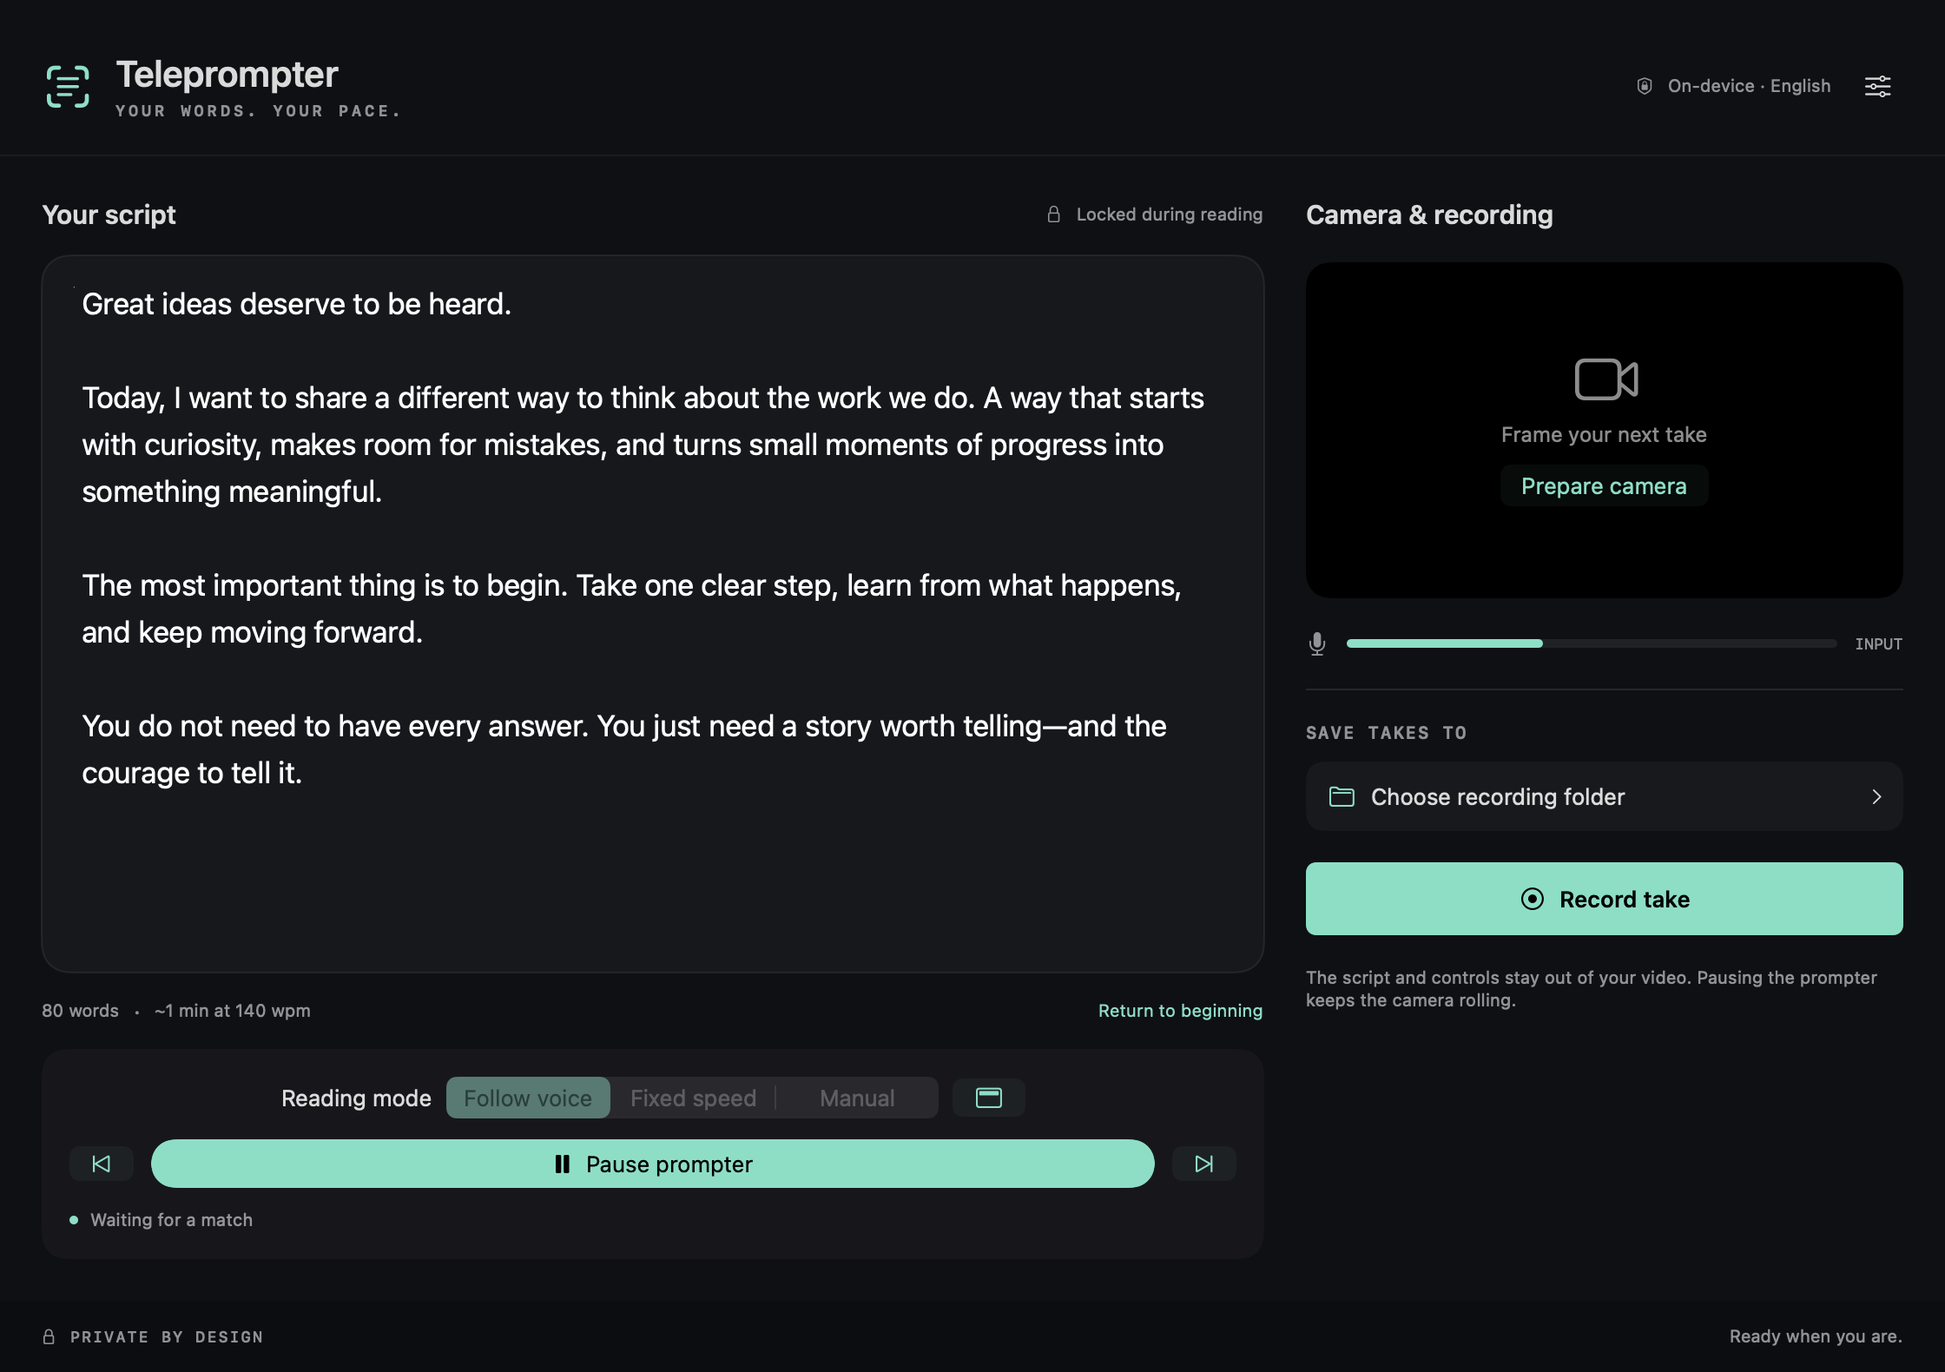
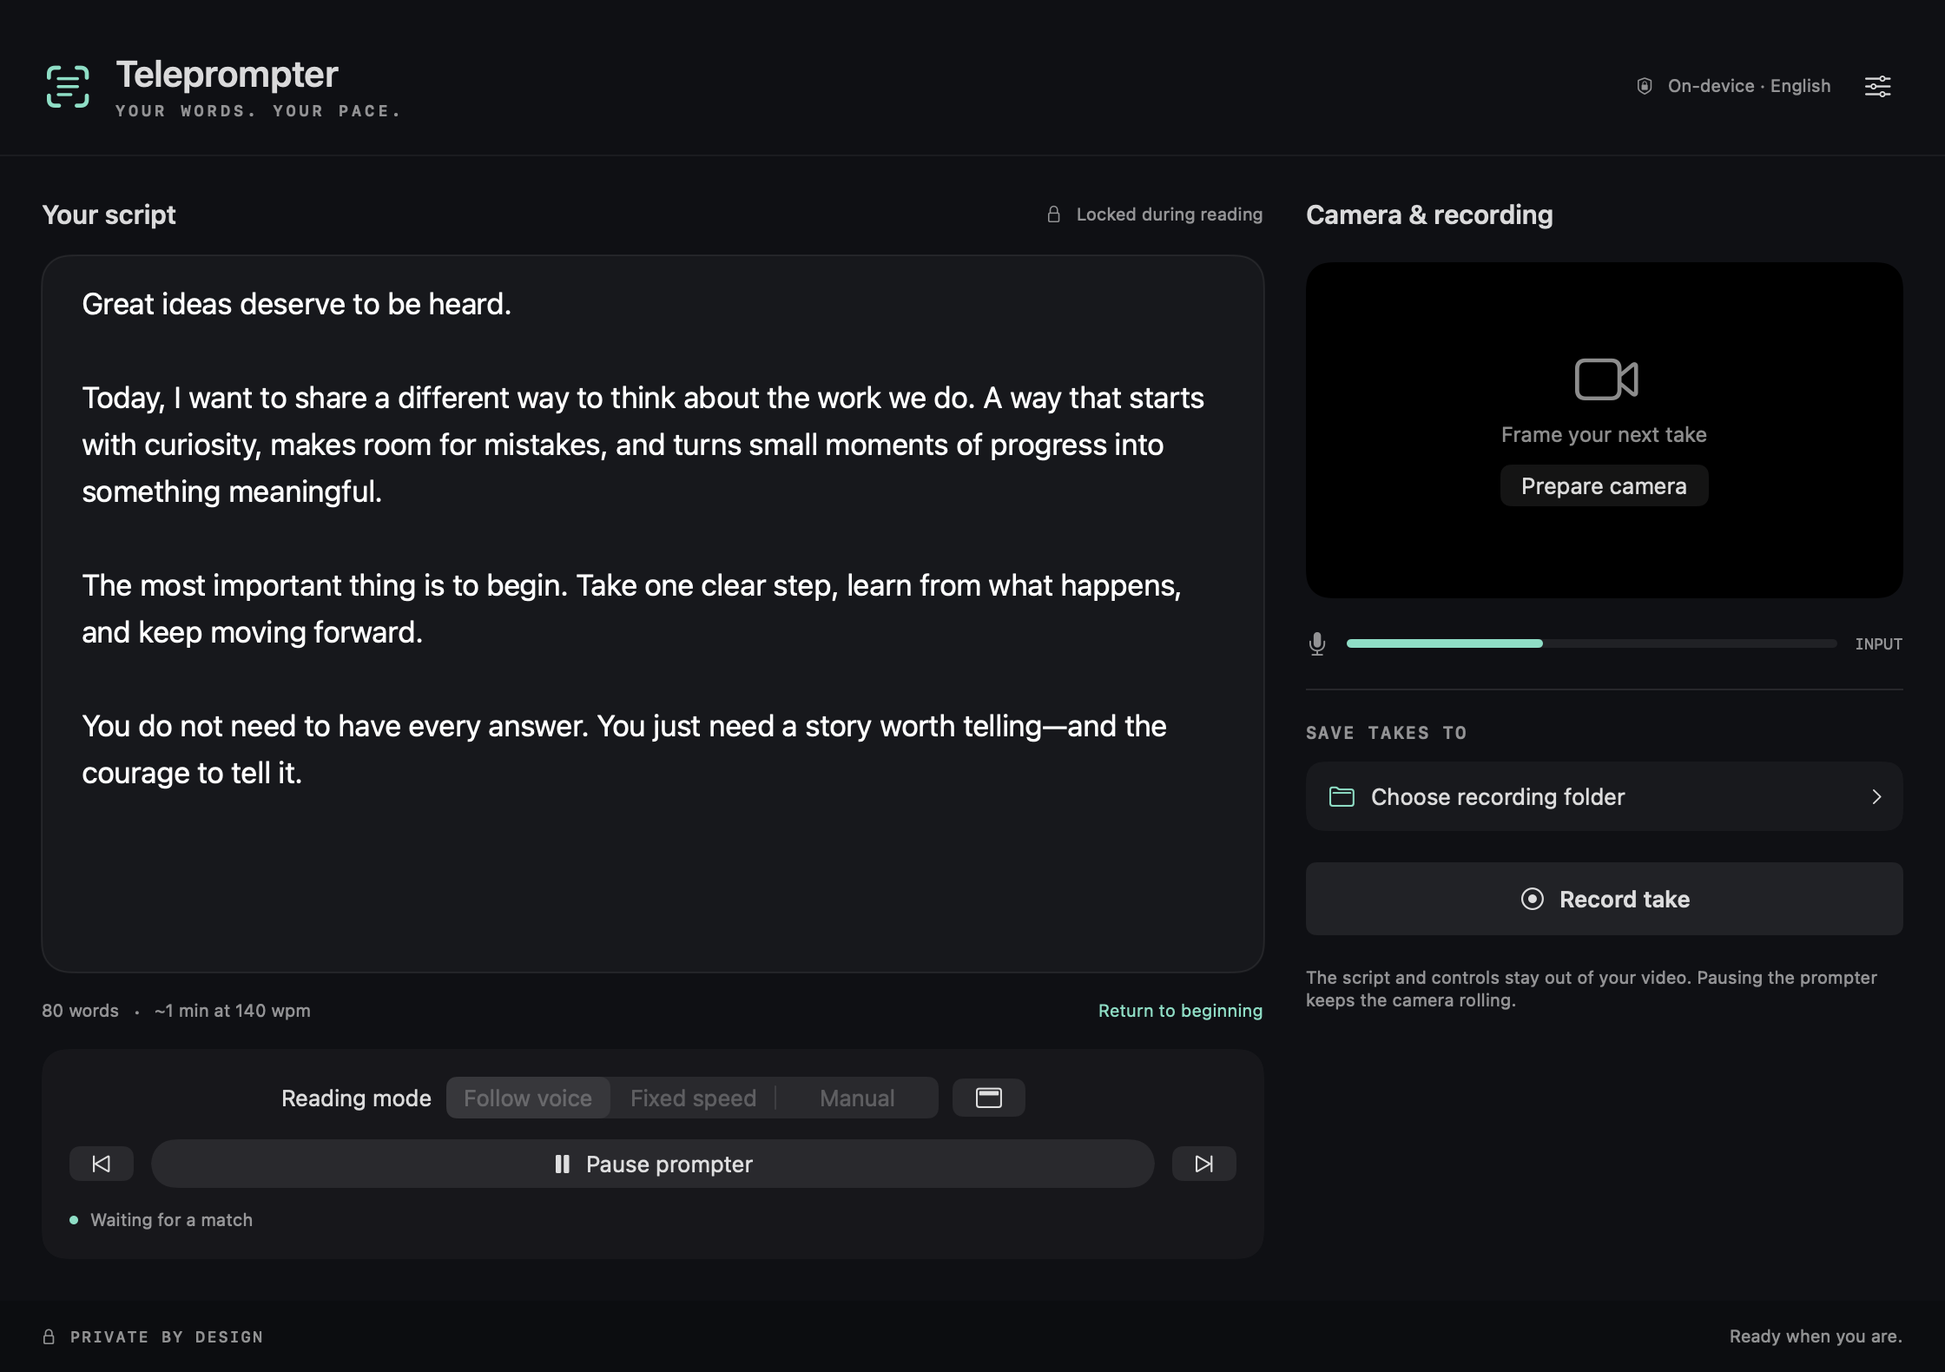
Reduce prompter and script text to 60 percent size
Apply compact sizing to existing preferences while retaining legible recording controls. Update size controls, screenshots, validation notes, and app version to 1.0.3.

Changed region(s): [[0.0625, 0.7753, 0.5938, 0.8684], [0.6562, 0.6203, 1.0, 0.6823], [0.7812, 0.3411, 0.875, 0.3722]]

diff --git a/App/PrompterPanel.swift b/App/PrompterPanel.swift
@@ -2,6 +2,33 @@ import AppKit
 import SwiftUI
 import TeleprompterKit
 
+/// Keep stored dimensions in their original units so existing drafts become
+/// compact without rescaling their saved settings again on each launch.
+enum PrompterSizing {
+    static let scale = 0.6
+    static let padding = 12.0 * scale
+    static let cornerRadius = 24.0 * scale
+    static let controlsHeight = 45.0 * scale
+
+    static func readingSettings(_ settings: UserSettings) -> UserSettings {
+        var compact = settings
+        compact.fontSize *= scale
+        compact.panelWidth *= scale
+        compact.lineSpacing *= scale
+        return compact
+    }
+
+    static func readerHeight(_ settings: UserSettings) -> Double {
+        (settings.fontSize * 1.25 + settings.lineSpacing) * 3
+    }
+
+    static func panelSize(_ settings: UserSettings) -> NSSize {
+        let compact = readingSettings(settings)
+        return NSSize(width: compact.panelWidth + 2 * padding,
+                      height: readerHeight(compact) + 3 * padding + controlsHeight + scale)
+    }
+}
+
 @MainActor final class PrompterPanelController {
     private let panel: NSPanel
     private weak var model: AppModel?
@@ -54,11 +81,10 @@ import TeleprompterKit
     }
     func resize() {
         guard let model else { return }
-        let width = model.settings.panelWidth + 24
-        let height = (model.settings.fontSize * 1.25 + model.settings.lineSpacing) * 3 + 82
+        let size = PrompterSizing.panelSize(model.settings)
         let top = panel.frame.maxY
         let center = panel.frame.midX
-        panel.setFrame(NSRect(x: center - width / 2, y: top - height, width: width, height: height), display: true)
+        panel.setFrame(NSRect(x: center - size.width / 2, y: top - size.height, width: size.width, height: size.height), display: true)
     }
     func resetPosition() {
         guard let screen = NSScreen.screens.first(where: { $0.safeAreaInsets.top > 0 }) ?? NSScreen.main ?? NSScreen.screens.first else { return }
@@ -77,22 +103,23 @@ struct FloatingPrompterView: View {
     private var illuminated: Bool {
         model.following || model.speechLoading || model.phase != .idle
     }
+    private var readingSettings: UserSettings { PrompterSizing.readingSettings(model.settings) }
     var body: some View {
         VStack(spacing: 0) {
-            PrompterReader(script: model.script, index: model.tokenIndex, settings: model.settings, onSeek: model.seek, suppressMotion: reduceMotion)
-                .frame(height: (model.settings.fontSize * 1.25 + model.settings.lineSpacing) * 3)
-                .padding(.top, 12)
+            PrompterReader(script: model.script, index: model.tokenIndex, settings: readingSettings, onSeek: model.seek, suppressMotion: reduceMotion)
+                .frame(height: PrompterSizing.readerHeight(readingSettings))
+                .padding(.top, PrompterSizing.padding)
                 .mask(alignment: .bottom) {
                     LinearGradient(stops: [.init(color: .white, location: 0), .init(color: .white, location: 0.78),
                                            .init(color: .white.opacity(0.3), location: 1)], startPoint: .top, endPoint: .bottom)
                 }
-            Rectangle().fill(LinearGradient(colors: [.clear, .white.opacity(0.14), .clear], startPoint: .leading, endPoint: .trailing)).frame(height: 1)
+            Rectangle().fill(LinearGradient(colors: [.clear, .white.opacity(0.14), .clear], startPoint: .leading, endPoint: .trailing)).frame(height: PrompterSizing.scale)
             controls
         }
-        .frame(width: model.settings.panelWidth)
+        .frame(width: readingSettings.panelWidth)
         .background(surface)
-        .clipShape(RoundedRectangle(cornerRadius: 24, style: .continuous))
-        .padding(12)
+        .clipShape(RoundedRectangle(cornerRadius: PrompterSizing.cornerRadius, style: .continuous))
+        .padding(PrompterSizing.padding)
         .overlay {
             PrompterAura(active: illuminated, visible: model.overlayVisible,
                          level: model.following && model.settings.mode == .speech ? model.microphoneLevel : 0,
@@ -105,15 +132,15 @@ struct FloatingPrompterView: View {
         .onChange(of: model.settings.lineSpacing) { model.overlay?.resize() }
     }
     private var surface: some View {
-        RoundedRectangle(cornerRadius: 24, style: .continuous)
+        RoundedRectangle(cornerRadius: PrompterSizing.cornerRadius, style: .continuous)
             .fill(Color(red: 0.025, green: 0.027, blue: 0.045).opacity(reduceTransparency ? 1 : model.settings.opacity))
             .overlay {
-                RoundedRectangle(cornerRadius: 24, style: .continuous)
+                RoundedRectangle(cornerRadius: PrompterSizing.cornerRadius, style: .continuous)
                     .fill(LinearGradient(colors: [Color.white.opacity(0.04), Color.clear], startPoint: .top, endPoint: .bottom))
             }
     }
     private var controls: some View {
-            HStack(spacing: 12) {
+            HStack(spacing: 12 * PrompterSizing.scale) {
                 Button { model.toggleFollowing() } label: { Image(systemName: model.following ? "pause.fill" : "play.fill") }
                     .accessibilityLabel(model.following ? "Pause prompter" : "Start prompter")
                 Button { model.moveSentence(-1) } label: { Image(systemName: "backward.end") }.accessibilityLabel("Previous sentence")
@@ -127,12 +154,12 @@ struct FloatingPrompterView: View {
                 }
                 if model.phase == .recording, let start = model.recordingStart {
                     Circle().fill(.red).frame(width: 6, height: 6)
-                    Text(start, style: .timer).font(.system(size: 10, design: .monospaced)).monospacedDigit()
+                    Text(start, style: .timer).font(.system(size: 10, design: .monospaced)).monospacedDigit().fixedSize()
                 }
                 Button { model.toggleRecording() } label: { Image(systemName: model.phase == .recording ? "stop.circle.fill" : "record.circle").foregroundStyle(.red) }
                     .disabled(model.phase == .finishing || model.configuring).accessibilityLabel(model.phase == .recording ? "Stop recording" : "Record take")
                 Button { model.toggleOverlay() } label: { Image(systemName: "xmark") }.accessibilityLabel("Hide prompter")
-            }.buttonStyle(.plain).font(.system(size: 12)).padding(.horizontal, 16).frame(height: 45)
+            }.buttonStyle(.plain).font(.system(size: 12)).padding(.horizontal, 16 * PrompterSizing.scale).frame(height: PrompterSizing.controlsHeight)
     }
 
 }
@@ -151,7 +178,7 @@ struct PrompterReader: NSViewRepresentable {
         scroll.contentView.wantsLayer = true
         let text = ReadingTextView(frame: .zero)
         text.isEditable = false; text.isSelectable = false; text.drawsBackground = false
-        text.textContainerInset = NSSize(width: 18, height: 0)
+        text.textContainerInset = NSSize(width: 18 * PrompterSizing.scale, height: 0)
         text.isVerticallyResizable = true; text.isHorizontallyResizable = false
         text.autoresizingMask = [.width]
         text.textContainer?.widthTracksTextView = true
@@ -180,7 +207,7 @@ struct PrompterReader: NSViewRepresentable {
                 .font: NSFont.systemFont(ofSize: settings.fontSize, weight: .medium),
                 .foregroundColor: NSColor.white.withAlphaComponent(0.78), .paragraphStyle: paragraph]))
             text.setFrameSize(NSSize(width: width, height: 1))
-            container.containerSize = NSSize(width: width - 36, height: .greatestFiniteMagnitude)
+            container.containerSize = NSSize(width: width - 36 * PrompterSizing.scale, height: .greatestFiniteMagnitude)
             manager.ensureLayout(for: container)
             let height = manager.usedRect(for: container).height + (settings.fontSize * 1.25 + settings.lineSpacing) * 3
             text.setFrameSize(NSSize(width: width, height: height))

diff --git a/App/SettingsView.swift b/App/SettingsView.swift
@@ -10,9 +10,9 @@ struct PrompterSettingsView: View {
             HStack { Text("Make it your own").font(.title2.weight(.semibold)); Spacer(); Button("Done") { model.registerHotkeys(); dismiss() }.keyboardShortcut(.defaultAction) }
             Form {
                 Section("Reading panel") {
-                    slider("Text size", value: $model.settings.fontSize, range: 20...48, suffix: "pt")
-                    slider("Panel width", value: $model.settings.panelWidth, range: 380...900, suffix: "pt")
-                    slider("Line spacing", value: $model.settings.lineSpacing, range: 2...20, suffix: "pt")
+                    panelSlider("Text size", value: $model.settings.fontSize, range: 20...48)
+                    panelSlider("Panel width", value: $model.settings.panelWidth, range: 380...900)
+                    panelSlider("Line spacing", value: $model.settings.lineSpacing, range: 2...20)
                     slider("Background opacity", value: $model.settings.opacity, range: 0.45...1, suffix: "", scale: 100)
                     Button("Reset panel beneath the notch") { model.ensureOverlay(); model.overlay?.resetPosition() }
                 }
@@ -29,11 +29,16 @@ struct PrompterSettingsView: View {
             }.formStyle(.grouped)
         }.padding(24).frame(width: 560, height: 640).preferredColorScheme(.dark)
     }
+    private func panelSlider(_ title: String, value: Binding<Double>, range: ClosedRange<Double>) -> some View {
+        let scale = PrompterSizing.scale
+        let displayed = Binding<Double>(get: { value.wrappedValue * scale }, set: { value.wrappedValue = $0 / scale })
+        return slider(title, value: displayed, range: (range.lowerBound * scale)...(range.upperBound * scale), suffix: "pt")
+    }
     private func slider(_ title: String, value: Binding<Double>, range: ClosedRange<Double>, suffix: String, scale: Double = 1) -> some View {
         HStack {
             Text(title).frame(width: 135, alignment: .leading)
             Slider(value: value, in: range)
-            Text("\(Int(value.wrappedValue * scale)) \(suffix)").font(.caption.monospacedDigit()).frame(width: 60, alignment: .trailing)
+            Text("\((value.wrappedValue * scale).formatted(.number.precision(.fractionLength(0...1)))) \(suffix)").font(.caption.monospacedDigit()).frame(width: 60, alignment: .trailing)
         }
     }
     private func shortcut(_ title: String, action: String) -> some View {

diff --git a/App/PrompterAura.swift b/App/PrompterAura.swift
@@ -51,13 +51,13 @@ final class AuraView: NSView {
         rim.mask = rimMask
         rimMask.fillColor = nil
         rimMask.strokeColor = NSColor.white.cgColor
-        rimMask.lineWidth = 1.5
+        rimMask.lineWidth = 1.5 * PrompterSizing.scale
         // A real soft shadow, masked outside the bubble, keeps all light off the text.
         shadowSource.backgroundColor = NSColor.black.cgColor
-        shadowSource.cornerRadius = 24
+        shadowSource.cornerRadius = PrompterSizing.cornerRadius
         shadowSource.shadowColor = NSColor(red: 0.49, green: 0.47, blue: 1, alpha: 1).cgColor
         shadowSource.shadowOpacity = 1
-        shadowSource.shadowRadius = 8
+        shadowSource.shadowRadius = 8 * PrompterSizing.scale
         shadowSource.shadowOffset = .zero
         bloom.mask = outsideMask
         outsideMask.fillRule = .evenOdd
@@ -69,16 +69,17 @@ final class AuraView: NSView {
     override func layout() {
         super.layout()
         CATransaction.begin(); CATransaction.setDisableActions(true)
-        let outline = RoundedRectangle(cornerRadius: 24, style: .continuous)
-            .path(in: bounds.insetBy(dx: 12.75, dy: 12.75)).cgPath
+        let inset = 12.75 * PrompterSizing.scale
+        let outline = RoundedRectangle(cornerRadius: PrompterSizing.cornerRadius, style: .continuous)
+            .path(in: bounds.insetBy(dx: inset, dy: inset)).cgPath
         let side = hypot(bounds.width, bounds.height)
         rim.frame = bounds; bloom.frame = bounds
         rimGradient.bounds = CGRect(x: 0, y: 0, width: side, height: side)
         rimGradient.position = CGPoint(x: bounds.midX, y: bounds.midY)
         rimMask.frame = bounds; rimMask.path = outline
         rimMask.contentsScale = window?.backingScaleFactor ?? 2
-        shadowSource.frame = bounds.insetBy(dx: 12.75, dy: 12.75)
-        shadowSource.shadowPath = RoundedRectangle(cornerRadius: 24, style: .continuous).path(in: shadowSource.bounds).cgPath
+        shadowSource.frame = bounds.insetBy(dx: inset, dy: inset)
+        shadowSource.shadowPath = RoundedRectangle(cornerRadius: PrompterSizing.cornerRadius, style: .continuous).path(in: shadowSource.bounds).cgPath
         let outside = CGMutablePath()
         outside.addRect(bounds); outside.addPath(outline)
         outsideMask.frame = bounds; outsideMask.path = outside

diff --git a/App/SnapshotCheck.swift b/App/SnapshotCheck.swift
@@ -11,6 +11,11 @@ import TeleprompterKit
         model.trackingStatus = TrackingStatus.listening.rawValue
         model.tokenIndex = 3
         model.microphoneLevel = 0.4
+        if CommandLine.arguments.contains("--narrow-panel") { model.settings.panelWidth = 380 }
+        if CommandLine.arguments.contains("--recording-preview") {
+            model.phase = .recording
+            model.recordingStart = Date().addingTimeInterval(-75)
+        }
         model.ensureOverlay()
         DispatchQueue.main.asyncAfter(deadline: .now() + 1) {
             do {

diff --git a/README.md b/README.md
@@ -20,7 +20,7 @@ A native macOS studio with a floating, voice-following reading panel and camera-
 - **Control the take.** Three-second countdown, rehearsal, manual sentence navigation, fixed-speed scrolling, configurable shortcuts, and menu bar controls. Pausing the text leaves recording running.
 - **Keep work local.** Automatic draft saving, selected-folder access, and recovery of playable fragments from interrupted takes. No analytics or cloud recognition.
 
-**Status:** version 1.0.2 is a release candidate. Automated tests and a short built-in camera recording have passed. Thirty-minute camera endurance and annotated human-speech acceptance remain open; see the [validation record](VALIDATION.md).
+**Status:** version 1.0.3 is a release candidate. Automated tests and a short built-in camera recording have passed. Thirty-minute camera endurance and annotated human-speech acceptance remain open; see the [validation record](VALIDATION.md).
 
 ## Requirements
 
@@ -67,6 +67,8 @@ Local builds and CI artifacts are for testing. For Developer ID signing, notariz
 Voice following tolerates nearby restarts, skipped sentences, fillers, and small wording changes. It holds when a phrase is ambiguous or you go off-script. Click a displayed word or use sentence navigation to reposition; use **Return to beginning** for a fresh reading. Completing the script stops the prompter but leaves the camera recording.
 
 Choose **Fixed speed** or **Manual** when voice following is unavailable. Configure text size, panel width, opacity, spacing, reading speed, and keyboard shortcuts in Settings.
+
+The panel and script text use a compact layout at 60% of the original size, including existing saved preferences. At the default settings, the reading surface is 336 points wide with 16.8-point text. Settings shows the actual displayed dimensions. Recording controls retain their legible icon and status sizes.
 
 The floating bubble has a gently rotating multicolor rim and a soft halo that responds to microphone level while following speech. Its text remains stationary apart from script advancement. A paused, idle panel stops its ambient animation, and hidden panels stop animating. Recording retains its separate red status indicator. Reduce Motion disables the moving light and animated scrolling, and Reduce Transparency gives the text an opaque background.
 

diff --git a/VALIDATION.md b/VALIDATION.md
@@ -50,6 +50,14 @@ The studio and floating-panel screenshots were regenerated from fixture views an
 
 The Developer ID/notarization script has passed syntax and preflight inspection only. A notarized distribution and clean-machine installation remain unverified and require the release prerequisites in [docs/RELEASING.md](docs/RELEASING.md).
 
+## Version 1.0.3 compact layout — September 17, 2026
+
+On macOS 26.6.2 with Xcode 27.0, the signed Release build, all 32 existing Swift tests, and the three-second synthetic MP4 check passed. The default panel render is 702 × 254 pixels on a 2× display, compared with the previous 1168 × 422 pixels; native window sizing rounds fractional dimensions. The reading surface is 336 points wide and the font is 16.8 points, both 60% of their prior defaults.
+
+Fixture renders confirmed three visible reading lines, word highlighting, and perimeter animation at the compact size. A second render at the minimum 228-point reading width retained every control and the simulated recording timer; the tracking status truncates to fit. These renders use fixture text and do not start camera or microphone capture. Saved preference values retain their original units, with the 60% scale applied only for presentation and reversed when editing size controls, so relaunches do not compound the reduction.
+
+Evidence: `build/compact-panel-build.log`, `build/compact-panel-tests.log`, and `build/compact-recording-preview.png`. No additional physical-camera or endurance acceptance is claimed for this UI change.
+
 ## Reproduce
 
 ```sh

diff --git a/CHANGELOG.md b/CHANGELOG.md
@@ -1,5 +1,10 @@
 # Changelog
 
+## 1.0.3 — Release candidate
+
+- Reduce the floating prompter's width, height, and script text to 60% of their previous size, including existing saved preferences.
+- Display the effective text size, panel width, and line spacing in Settings, while preserving readable recording controls.
+
 ## 1.0.2 — Release candidate
 
 - Preserve native camera dimensions and frame timing through preview, countdown, and recording startup.
